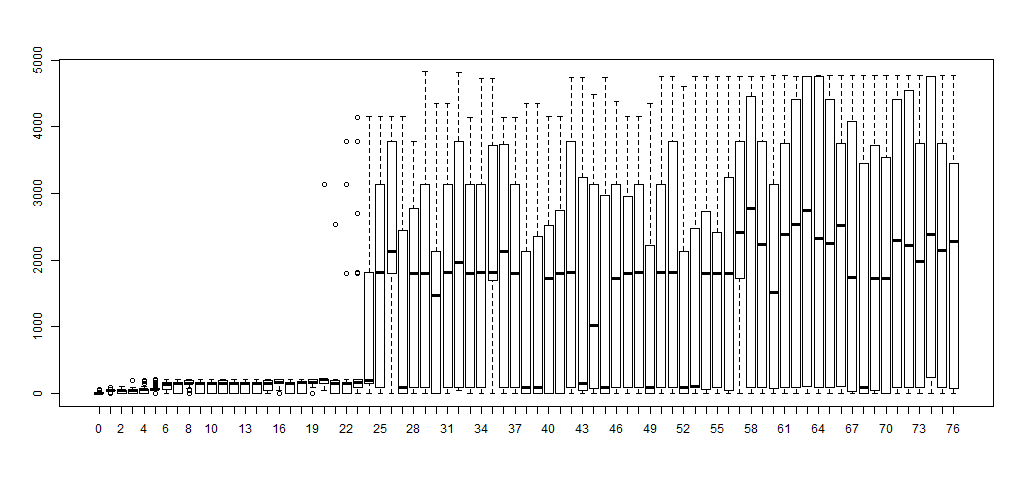
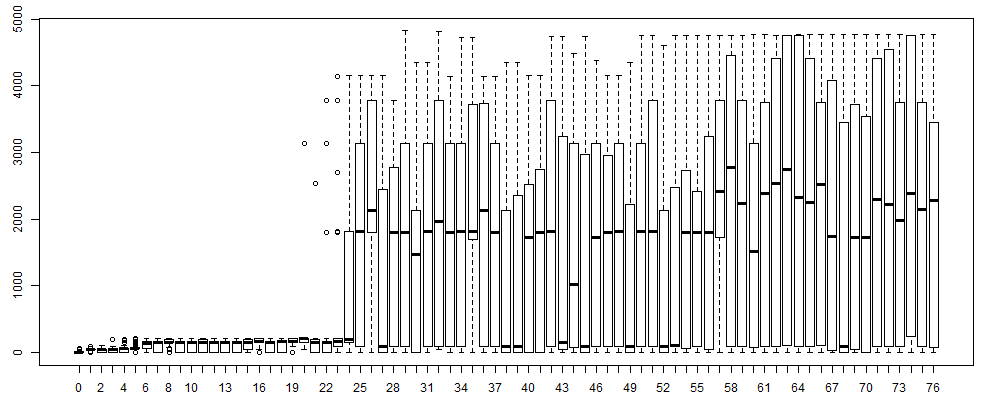
Fixed image scaling.

diff --git a/documents/report.tex b/documents/report.tex
@@ -69,7 +69,7 @@ labelfont=bf,singlelinecheck=off,labelsep=space}
 
     Behaviour trees are a popular model for representing the decision-making and plan execution process for NPCs in video games. These are built by hand, and often require expertise to craft into interesting and intelligent behaviours. These types of behaviour trees usually don't adapt well to new environments, and need many tailor-made trees for each situation.
 
-    In this paper we demonstrate how to generate the trees by using genetic programming; allowing us to essentially evolve novel behaviours automatically in our testbed. Instead of specifying low-level actions and conditions, we use high-level definitions. This leads to faster fitness convergence, and also allows us to skip the bloat control and tree pruning steps used by other similar behaviour tree evolution methods. Results show that the evolved trees reliably defeats our hand-crafted behaviours by the \(20^{th}\) generation.
+    In this paper we demonstrate how to generate the trees by using genetic programming; allowing us to essentially evolve novel behaviours automatically in our testbed. Instead of specifying low-level actions and conditions, we use high-level definitions. This leads to faster fitness convergence, and also allows us to skip the bloat control and tree pruning steps used by other similar behaviour tree evolution methods. Results show that the evolved trees reliably defeats our hand-crafted behaviours by the \(25^{th}\) generation.
 
     \vspace{1em}
 
@@ -421,9 +421,13 @@ labelfont=bf,singlelinecheck=off,labelsep=space}
 
         Finally, we present the results from our solution. After generating fifty random individuals for \(\mathcal{P}_0\), we applied genetic programming until we had \(\mathcal{P}_{50}\), the resulting pool of \emph{evolved behaviour trees}. The fitness for each individual in each generation was found by having a match against our crafted behaviour tree, and recording match statistics, used to calculate \(f_i\).
 
+        We've also attempted to evaluate individuals in a generation by pitting them against other individuals in the same generation (we call them \emph{peers} below). Therefore two results will be presented, one where the fitness \(f_i\) is evaluated against our \emph{hand-crafted tree} and one against its \emph{peers} in the same generation.
+
+        In \cref{sec:generated_behaviours} we provide two behaviour trees generated with our solution at \(\mathcal{P}_{50}\) when playing against hand-crafted behaviour trees. We then give in \cref{sec:behaviour_fitness} graphs of the evolution of the fitness function per generation, for both the peer and the hand-crafted evaluation methods from \(\mathcal{P}_0\) up to \(\mathcal{P}_{50}\). In \cref{sec:survival_ratio} we measure the effectiveness of the behaviour tree by looking at the amount of individuals in the generation that have survived against our hand-crafted behavior trees as the number of generation progresses forward.
+
         \subsection{Generated Behaviours} \label{sec:generated_behaviours}
 
-        Each fitness evaluation was performed on a randomly selected hand-crafted level to prevent the behaviour trees getting overfitting to a specific level. 
+        Each fitness evaluation was performed on a randomly selected hand-crafted level to prevent the behaviour trees getting overfitted to a specific level. 
 
         \begin{figure}[H]
             \centering
@@ -443,25 +447,24 @@ labelfont=bf,singlelinecheck=off,labelsep=space}
             \caption{Generated tree with high fitness (3650). This tree on the other hand is only fours levels deep.}
             \label{fig:tree_fitness_3650}
         \end{figure}
-        Here is a smaller tree of the same generation in \cref{fig:tree_fitness_3650}, it also manages to defeat the hard-coded bot on all levels without bloating to unmanageable size. Prior exploration of generated trees indicated that as long as the tree have a \textit{sequence} of \textit{pick-up shotgun} and \textit{attack player}, it would reach a fitness of around \(1000\). Because this kind of sub-tree is quite common, it tends to appear in many BT crossovers.
+        Here is a smaller tree of the same generation in \cref{fig:tree_fitness_3650}, it also manages to defeat the hard-coded bot on all levels without bloating to unmanageable size. Prior exploration of generated trees indicated that as long as the tree has a \textit{sequence} of \textit{pick-up shotgun} and \textit{attack player}, it would reach a fitness of around \(1000\). Because this kind of sub-tree is quite common, it tends to appear in many BT crossovers.
 
         Since this behaviour tree is a lot smaller, it's quite easy to analyze the expected behaviour in comparison to the one in \cref{fig:tree_fitness_4075}. At the end of this paper we've therefore provided a scaled-up version of this tree so the reader can look through it in more detail.
 
         \twocolumn[{
         \subsection{Behaviour Fitness} \label{sec:behaviour_fitness}
-
-        Looking at the general fitness over generations we can observe how once the behaviour trees routinely defeats its adversary, the mean fitness plateaus and the variance fills the entire range of possible fitness values. When evaluating each tree against random peers, we see something similar but it converges with a slower rate. 
-
+        Looking at the general fitness over generations, we can observe that once the behaviour trees routinely starts defeating its adversary, the mean fitness plateaus and the variance fills the entire range of possible fitness values. When evaluating each tree against random peers, we see something similar but it converges with a slower rate. One possible hypothesis of why this happens is that the amount of ``junk'' behaviours that get by in \cref{fig:fitness-against-random} at the start are all also low-performing BTs. Therefore, there is no real competition at the start until one of them gets a good mutation or crossover. After that, this better BT will very likely pass on its genes onto the next generation and generate a lot better BTs than before. In our hard-coded bot, this happens quickly because the competition at the start is already quite high.
+        \vspace{2em}
         \begin{figure}[H]
             \centering
             \begin{minipage}{\textwidth}  
                 \includegraphics[width=\textwidth]{share/result-againts-bot.png}
-                \caption{Fitness over generations when evaluating against a hard-coded bot. Higher score faster is better.}
+                \caption{Fitness over generations when evaluating against a hard-coded bot. Higher score is better.}
                 \label{fig:fitness-against-bot}
             \end{minipage}
             \begin{minipage}{\textwidth}  
                 \includegraphics[width=\textwidth]{share/result-random.png}
-                \caption{Fitness over generations when evaluating against 2 random peers. Higher score faster is better.}
+                \caption{Fitness over generations when evaluating against 2 random peers. Higher score is better.}
                 \label{fig:fitness-against-random}
             \end{minipage}
         \end{figure}
@@ -470,18 +473,18 @@ labelfont=bf,singlelinecheck=off,labelsep=space}
 
     \twocolumn[{
         \subsection{Survival Ratio} \label{sec:survival_ratio}
-        In the ideal case, the survival rate follows as an consequence of the fitness score. In the two figures above we can see the same trend as in the fitness, the higher the fitness, the higher the survival rate. If this wasn't the case, our fitness evaluation wouldn't provide a good metric for evaluating combat performance.  
-
+        In the ideal case, the survival rate follows as a consequence of the fitness score. In the two figures below we can see the same trend as in the fitness, the higher the fitness, the higher the survival rate. If this wasn't the case, our fitness evaluation wouldn't provide a good metric for evaluating combat performance.  
+        \vspace{4em}
         \begin{figure}[H]
             \centering
             \begin{minipage}{\textwidth}  
                 \includegraphics[width=\textwidth]{share/result-victories-against-bot.png}
-                \caption{Number of victories for each generation when evaluating against a hard-coded bot. Higher value is better.}
+                \caption{Victories for each generation when evaluating against a hard-coded bot. Higher value is better.}
                 \label{fig:victory-against-bot}
             \end{minipage}
             \begin{minipage}{\textwidth}  
                 \includegraphics[width=\textwidth]{share/result-victories-random.png}
-                \caption{Number of victories for each generations when evaluating against 2 random peers. Higher value is better.}
+                \caption{Victories for each generations when evaluating against 2 random peers. Higher value is better.}
                 \label{fig:victory-against-random}
             \end{minipage}
         \end{figure}
